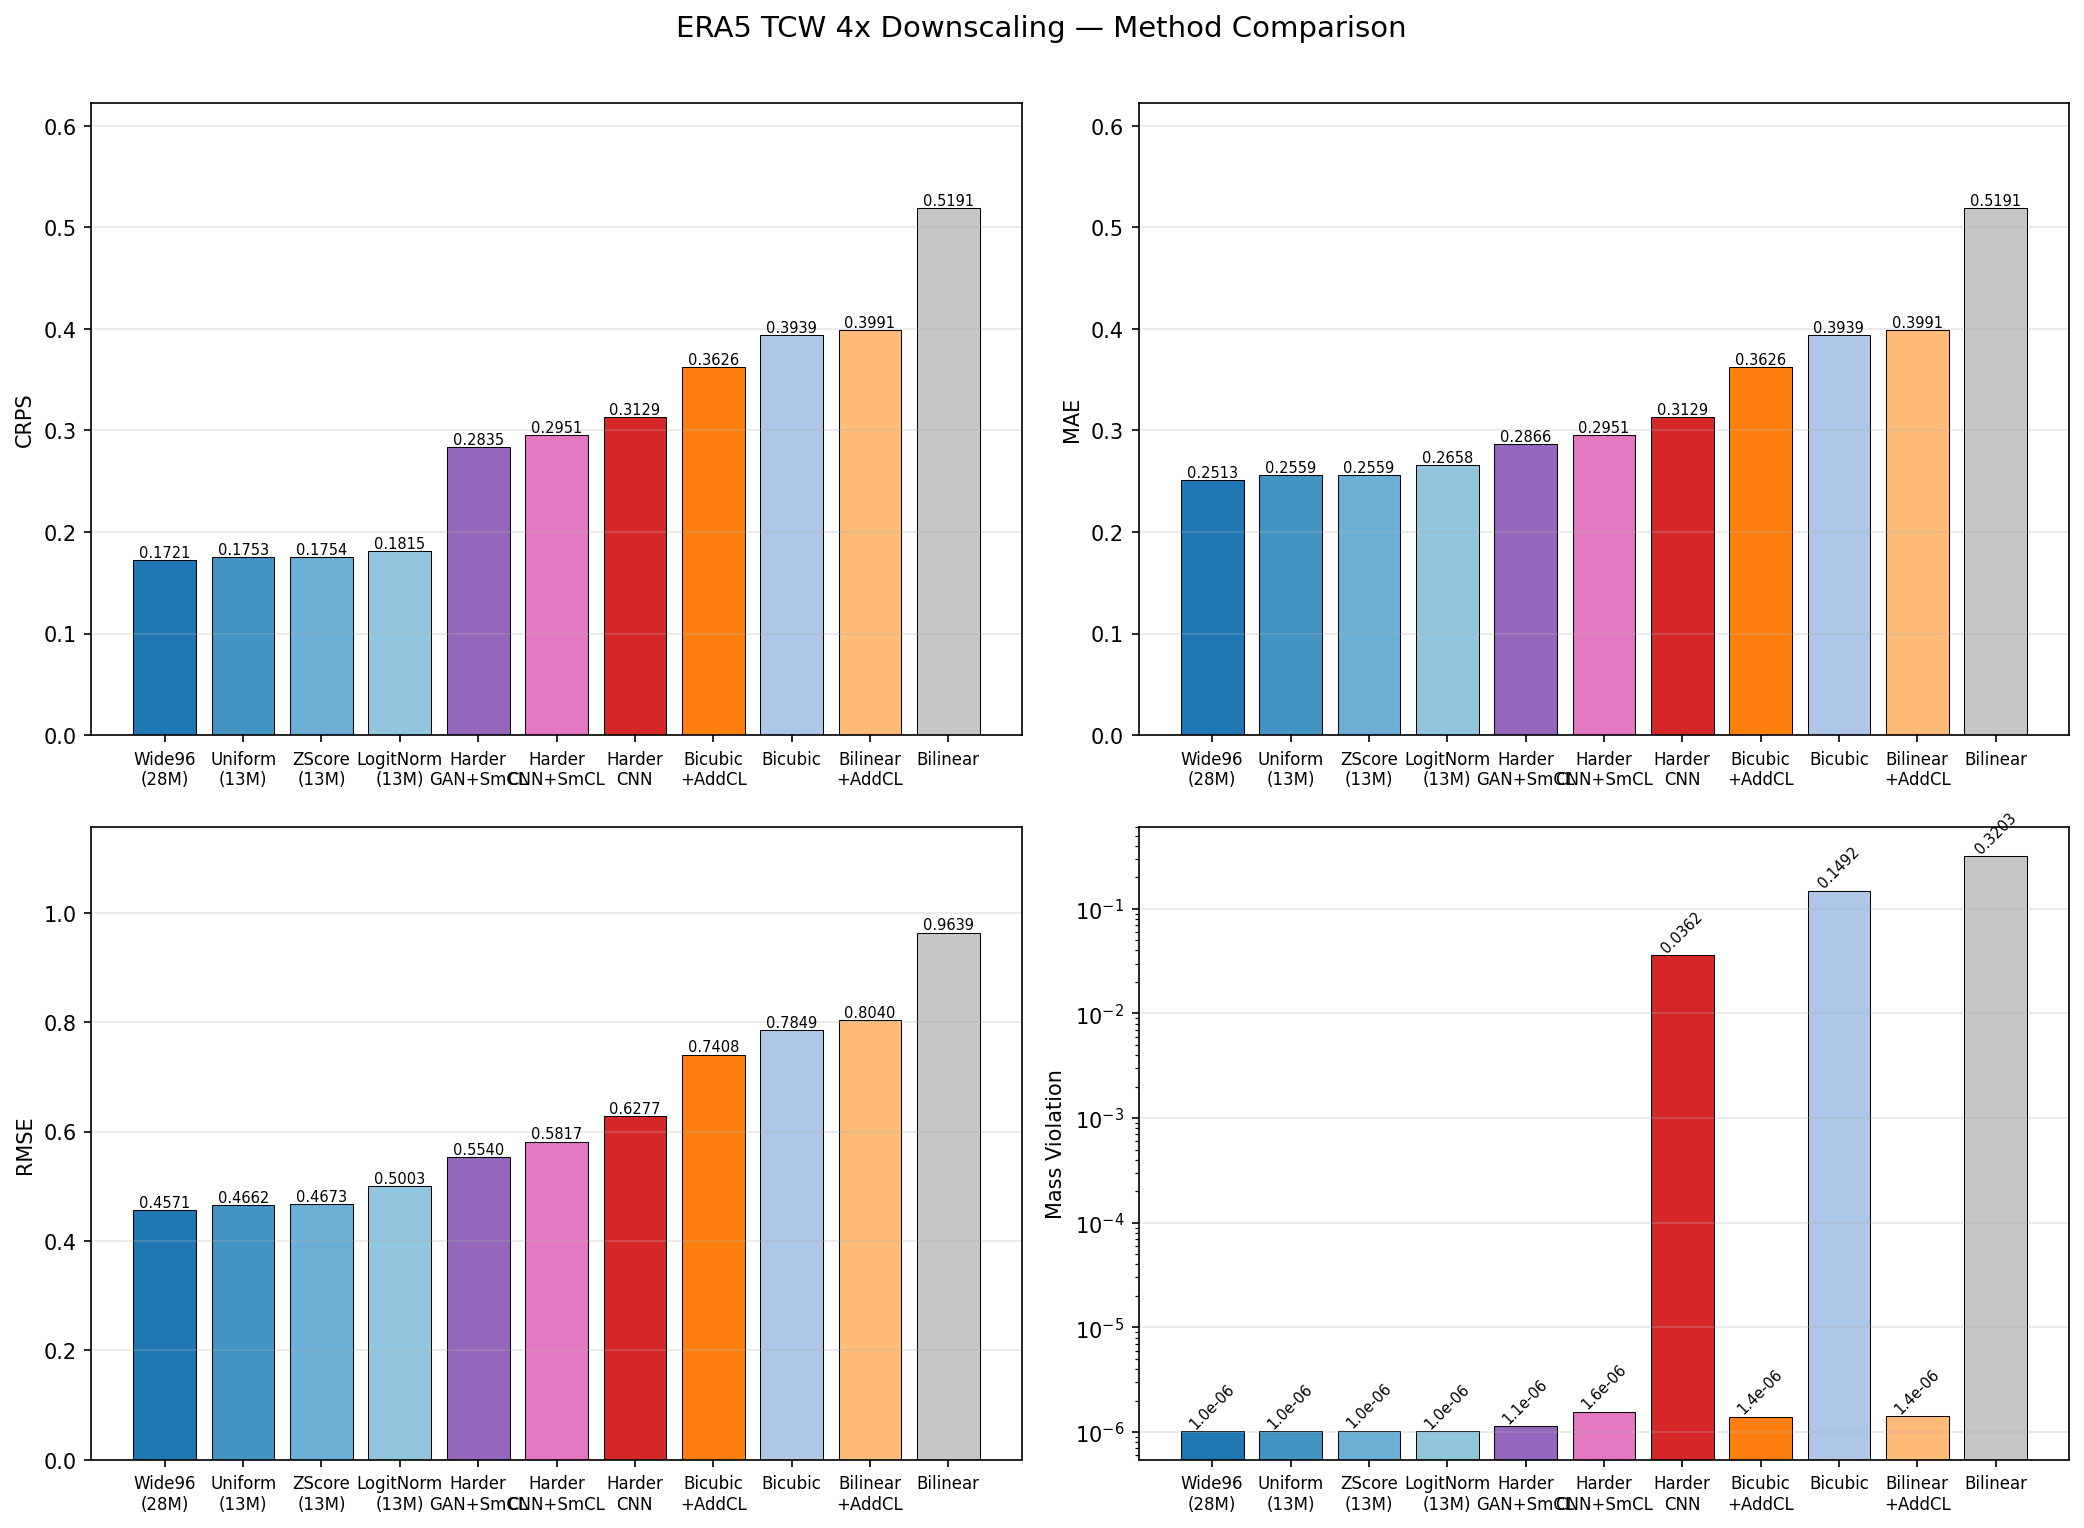
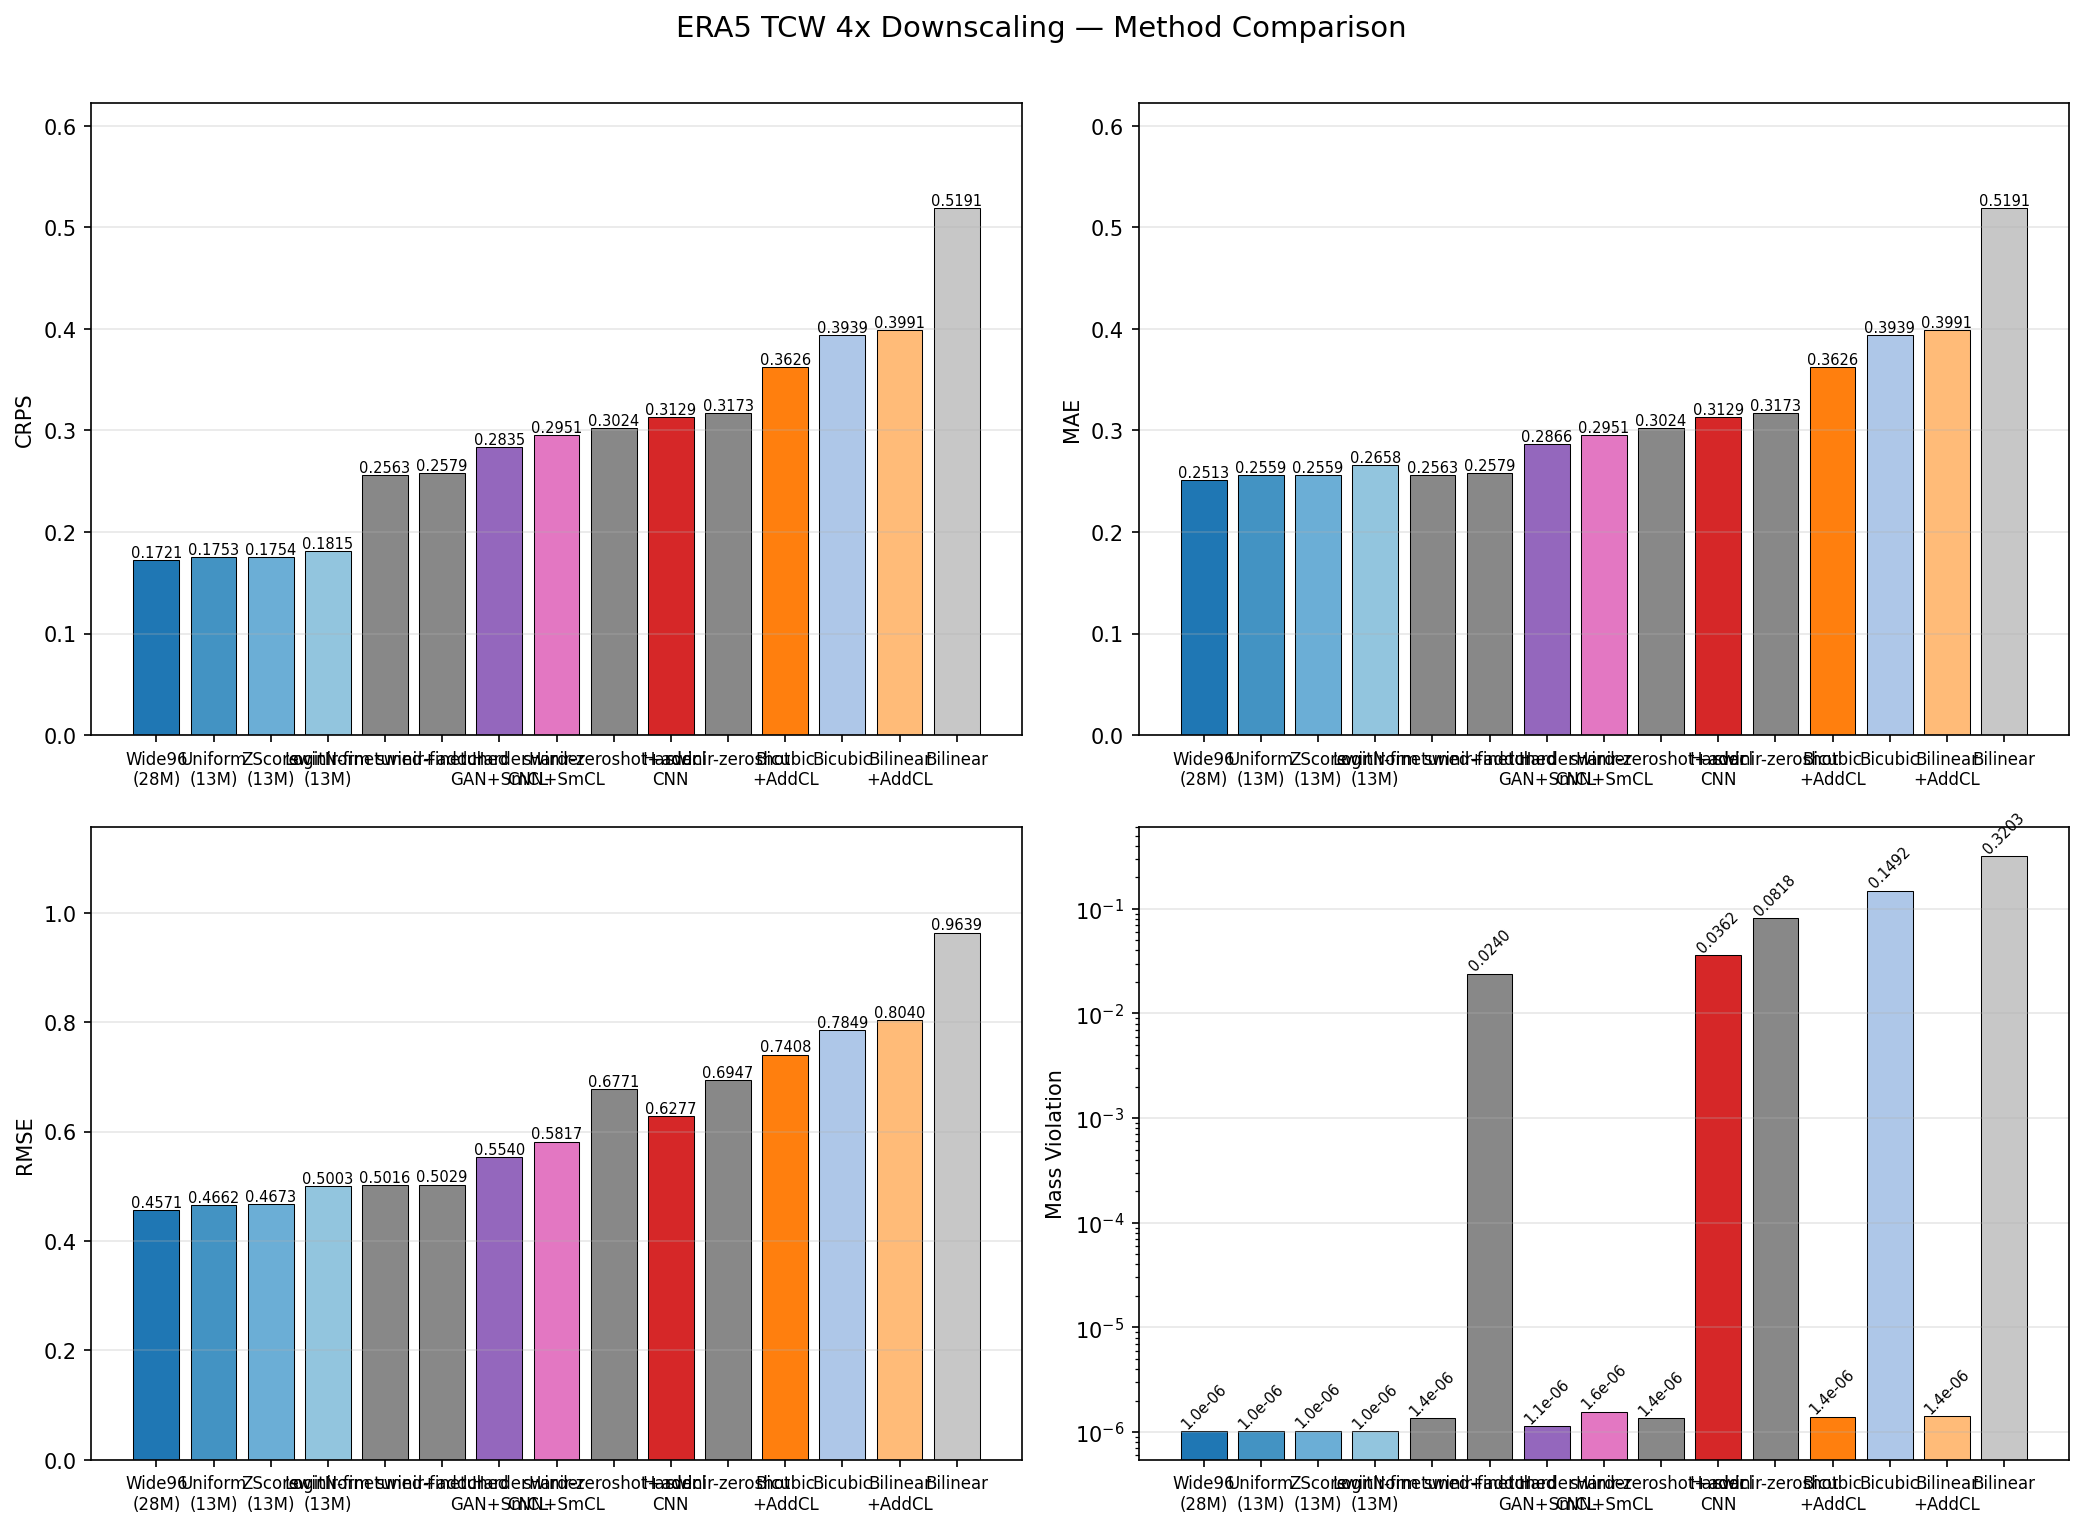
add SwinIR eval results and regenerate metric figures
Run SwinIR evaluation (zero-shot, finetuned, +addcl variants) on full
10K test set. SwinIR-finetuned+addcl achieves CRPS=0.256, beating all
Harder et al. baselines but below flow models (0.17-0.18).

Changed region(s): [[0.5614, 0.123, 0.9669, 1.0], [0.0624, 0.5844, 0.4679, 1.0], [0.0624, 0.123, 0.4679, 0.5229]]

diff --git a/scripts/eval_swinir_only.py b/scripts/eval_swinir_only.py
@@ -1,0 +1,79 @@
+"""Run SwinIR evaluation only and merge into existing eval results.
+
+Usage:
+    srun --jobid=<JOB_ID> python scripts/eval_swinir_only.py
+"""
+
+import json
+import time
+from pathlib import Path
+
+import torch
+
+from downscaling.data.era5 import load_era5_tcw
+from downscaling.evaluation.swinir import eval_swinir_finetuned, eval_swinir_zeroshot
+
+POOL = Path("/home/chenxy/orcd/pool/datasets")
+PRETRAINED = POOL / "research5/pretrained_weights/001_classicalSR_DF2K_s64w8_SwinIR-M_x4.pth"
+CHECKPOINT = POOL / "spatial-4x-add-v2/models/swinir_ft/best_swinir.pt"
+RESULTS_FILE = Path("eval_results_500.json")
+
+
+def main() -> None:
+    device = "cuda" if torch.cuda.is_available() else "cpu"
+    print(f"Device: {device}")
+
+    print("Loading test data...")
+    _, _, hr, lr_orig = load_era5_tcw(POOL, "test")
+    print(f"  hr={hr.shape}, lr_orig={lr_orig.shape}")
+
+    configs = {
+        "swinir-zeroshot": {"mode": "zeroshot", "with_addcl": False},
+        "swinir-zeroshot+addcl": {"mode": "zeroshot", "with_addcl": True},
+        "swinir-finetuned": {"mode": "finetuned", "with_addcl": False},
+        "swinir-finetuned+addcl": {"mode": "finetuned", "with_addcl": True},
+    }
+
+    results: dict[str, dict[str, float]] = {}
+
+    for name, cfg in configs.items():
+        print(f"\nEvaluating {name}...")
+        t0 = time.time()
+        if cfg["mode"] == "zeroshot":
+            results[name] = eval_swinir_zeroshot(
+                hr=hr, lr_orig=lr_orig, weights_path=PRETRAINED,
+                device=device, with_addcl=cfg["with_addcl"],
+            )
+        else:
+            results[name] = eval_swinir_finetuned(
+                hr=hr, lr_orig=lr_orig, pretrained_weights_path=PRETRAINED,
+                checkpoint_path=CHECKPOINT, device=device, with_addcl=cfg["with_addcl"],
+            )
+        r = results[name]
+        elapsed = time.time() - t0
+        print(f"  CRPS={r['crps']:.6f}  MAE={r['mae']:.6f}  "
+              f"RMSE={r['rmse']:.6f}  MassViol={r['mass_violation']:.6f}  ({elapsed:.1f}s)")
+
+    # Merge into existing results
+    if RESULTS_FILE.exists():
+        with open(RESULTS_FILE) as f:
+            existing = json.load(f)
+        existing["results"].update(results)
+        with open(RESULTS_FILE, "w") as f:
+            json.dump(existing, f, indent=2)
+        print(f"\nMerged {len(results)} SwinIR results into {RESULTS_FILE}")
+    else:
+        print(f"\nWARNING: {RESULTS_FILE} not found, saving standalone")
+        with open("eval_results_swinir.json", "w") as f:
+            json.dump({"results": results}, f, indent=2)
+
+    # Print comparison table
+    print(f"\n{'Method':<30} {'CRPS':>10} {'MAE':>10} {'RMSE':>10} {'MassViol':>10}")
+    print("=" * 80)
+    for name, r in sorted(results.items(), key=lambda x: x[1]["crps"]):
+        print(f"{name:<30} {r['crps']:>10.6f} {r['mae']:>10.6f} "
+              f"{r['rmse']:>10.6f} {r['mass_violation']:>10.6f}")
+
+
+if __name__ == "__main__":
+    main()

diff --git a/.ralph/agent/scratchpad.md b/.ralph/agent/scratchpad.md
@@ -91,3 +91,72 @@ Key findings:
 3. Optionally: continue training for more epochs if MAE worse than research5
 4. Update figures with scripts/make_figures.py
 5. Commit updated eval results + figures
+
+---
+
+# Iteration 2: Run SwinIR Evaluation
+
+## Start
+- **Time**: 2026-05-09 03:56 EDT
+- **Commit**: 38b05ca (update scratchpad)
+- **Prefix**: ivtl-jbcd
+
+## GPU Status
+- 1 normal job running (limit 2) → 1 normal slot available
+- 4 preemptable jobs running (limit 4) → 0 preemptable available
+- Will use normal slot
+
+## Concerns
+
+### 1. Workflow: run_eval.py cannot run SwinIR only
+- run_eval.py runs ALL models (baselines + SwinIR + Harder + flow)
+- Flow model eval is extremely slow (500 ODE steps × 10 ensemble × 10K samples)
+- No `--swinir-only` or `--skip-flow` flag exists
+- **Fix**: Run SwinIR eval inline and merge results into eval_results_500.json
+
+### 2. Workflow: make_figures.py doesn't include SwinIR in sample visualizations
+- Metric plots auto-pick up from JSON (will work after eval)
+- But sample_comparison/error_maps do NOT include SwinIR predictions
+- **Fix**: Add SwinIR prediction generation to make_figures.py (next iteration)
+
+### 3. Fact: Scratchpad says "epoch 22" but checkpoint has epoch 21
+- Checkpoint 'epoch' key = 21 (0-indexed), scratchpad says 22 (1-indexed?)
+- Minor discrepancy, not functional issue. Checkpoint is valid.
+
+## Plan for this iteration
+1. Allocate GPU (normal slot) ✓ (job 13622667, node1634)
+2. Run SwinIR eval (4 configs) on test set ✓
+3. Merge results into eval_results_500.json ✓
+4. Regenerate metric figures (--metrics-only, no GPU needed) ✓
+5. Commit updated results + figures ✓
+6. Release GPU ✓
+
+## SwinIR Evaluation Results (10K test samples, GPU)
+
+| Method | CRPS | MAE | RMSE | MassViol | Time |
+|--------|------|-----|------|----------|------|
+| swinir-finetuned+addcl | **0.2563** | **0.2563** | **0.5016** | 0.0000 | 33s |
+| swinir-finetuned | 0.2579 | 0.2579 | 0.5029 | 0.0240 | 40s |
+| swinir-zeroshot+addcl | 0.3024 | 0.3024 | 0.6771 | 0.0000 | 291s |
+| swinir-zeroshot | 0.3173 | 0.3173 | 0.6947 | 0.0818 | 303s |
+
+Key findings:
+- Finetuning helps enormously: CRPS 0.317 → 0.258 (19% improvement)
+- AddCL eliminates mass violation with slight CRPS improvement
+- SwinIR finetuned+addcl (CRPS=0.256) beats all Harder baselines:
+  - Harder GAN+SmCL: 0.2835
+  - Harder CNN+SmCL: 0.2951
+  - Harder CNN: 0.3129
+- But flow models are still significantly better (0.172-0.182)
+- Zero-shot is slow (291-303s) due to per-sample normalization
+- Finetuned is fast (33-40s) with global normalization
+- MAE=0.2579 comparable to research5's MAE=0.2504 (slightly worse, fewer epochs)
+
+## Remaining work
+- Add SwinIR to make_figures.py sample visualizations (next iteration)
+- Consider continuing training for more epochs
+
+## Ending state
+- **Time**: 2026-05-09 ~04:20 EDT
+- **Commit**: (pending commit)
+- **GPU**: Released (scancel 13622667)